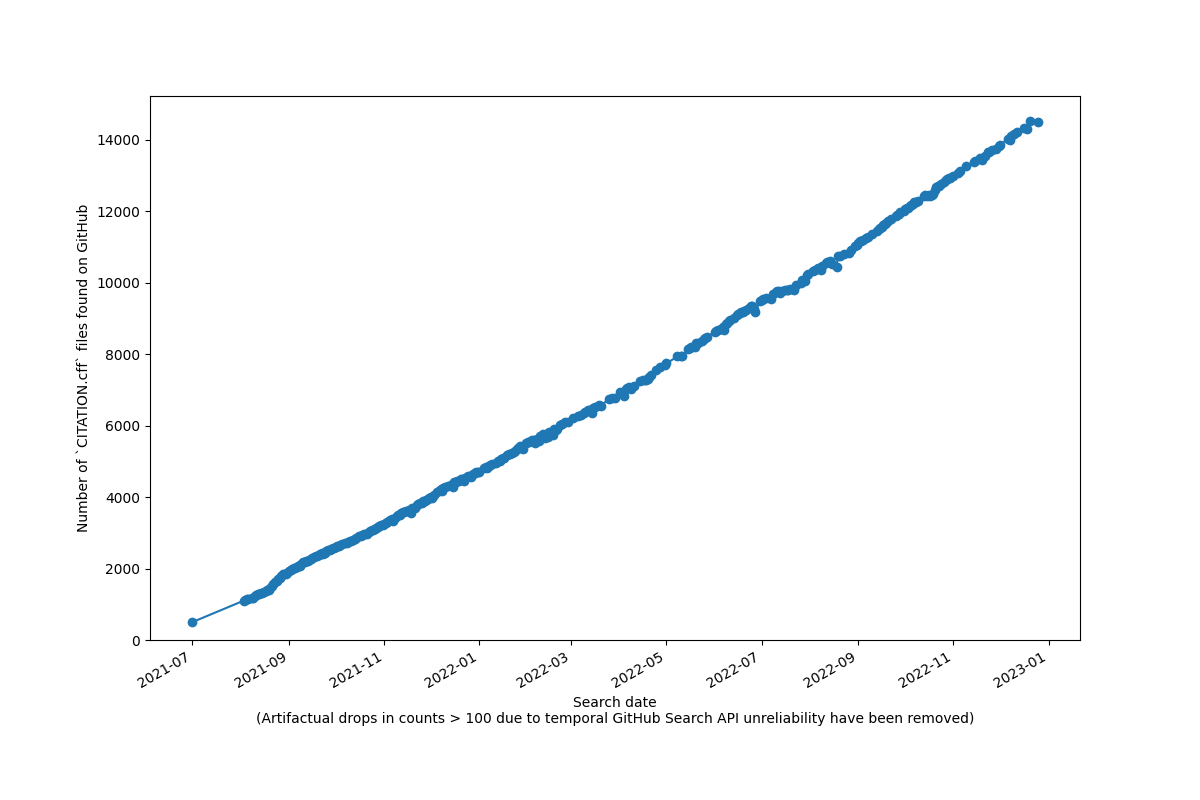
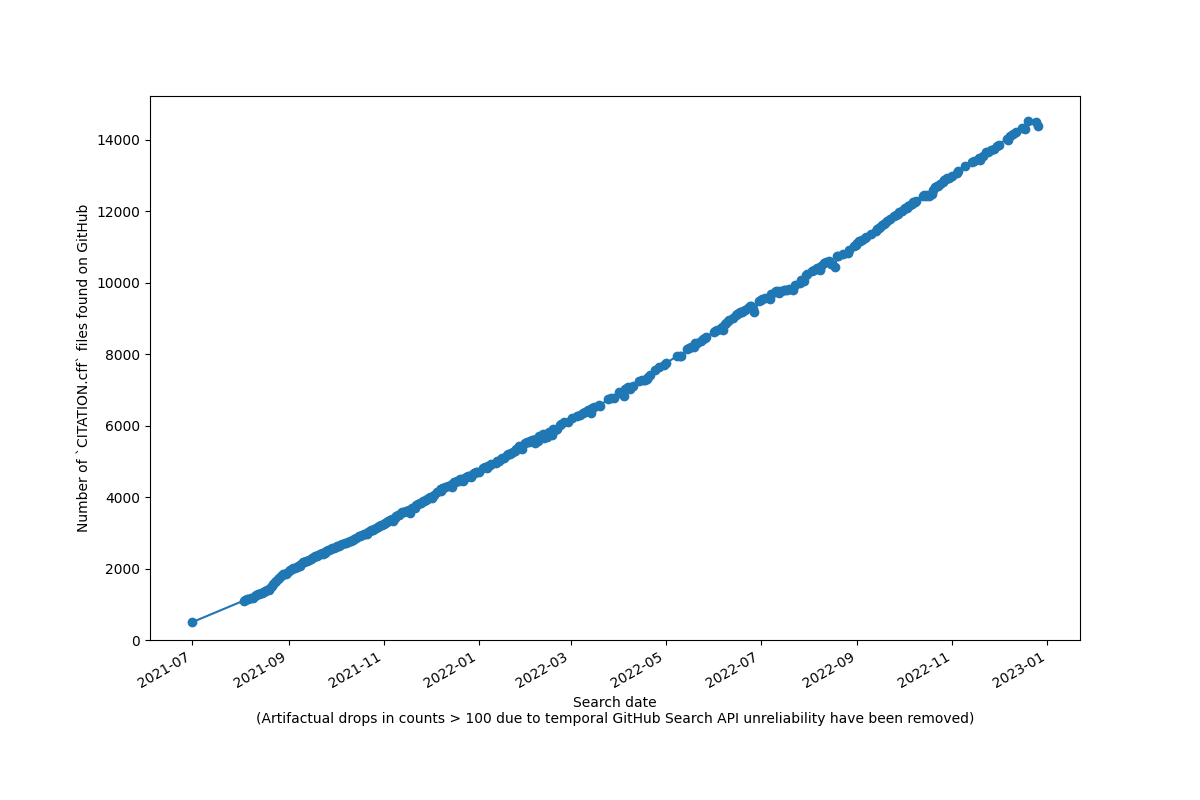
Update data

diff --git a/README.md b/README.md
@@ -7,7 +7,7 @@ SPDX-License-Identifier: CC-BY-4.0
 
 Tracks `CITATION.cff` files across public repositories on GitHub.
 
-## Current count: 14483
+## Current count: 14392
 
 ![A graph showing a timeline of file counts for CITATION.cff files across GitHub retrieved via GitHub search API.](cff_counts_clean.png)
 
